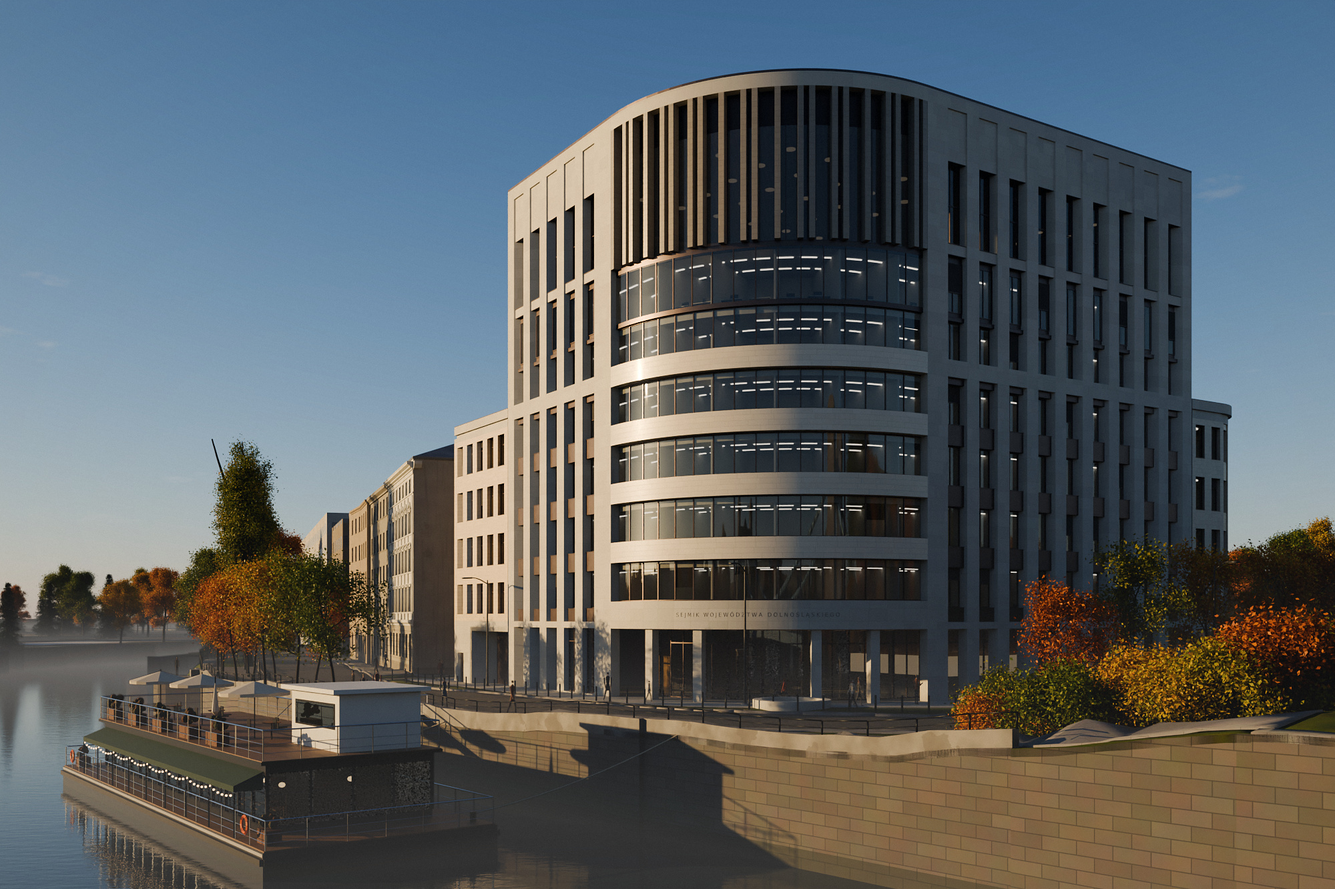
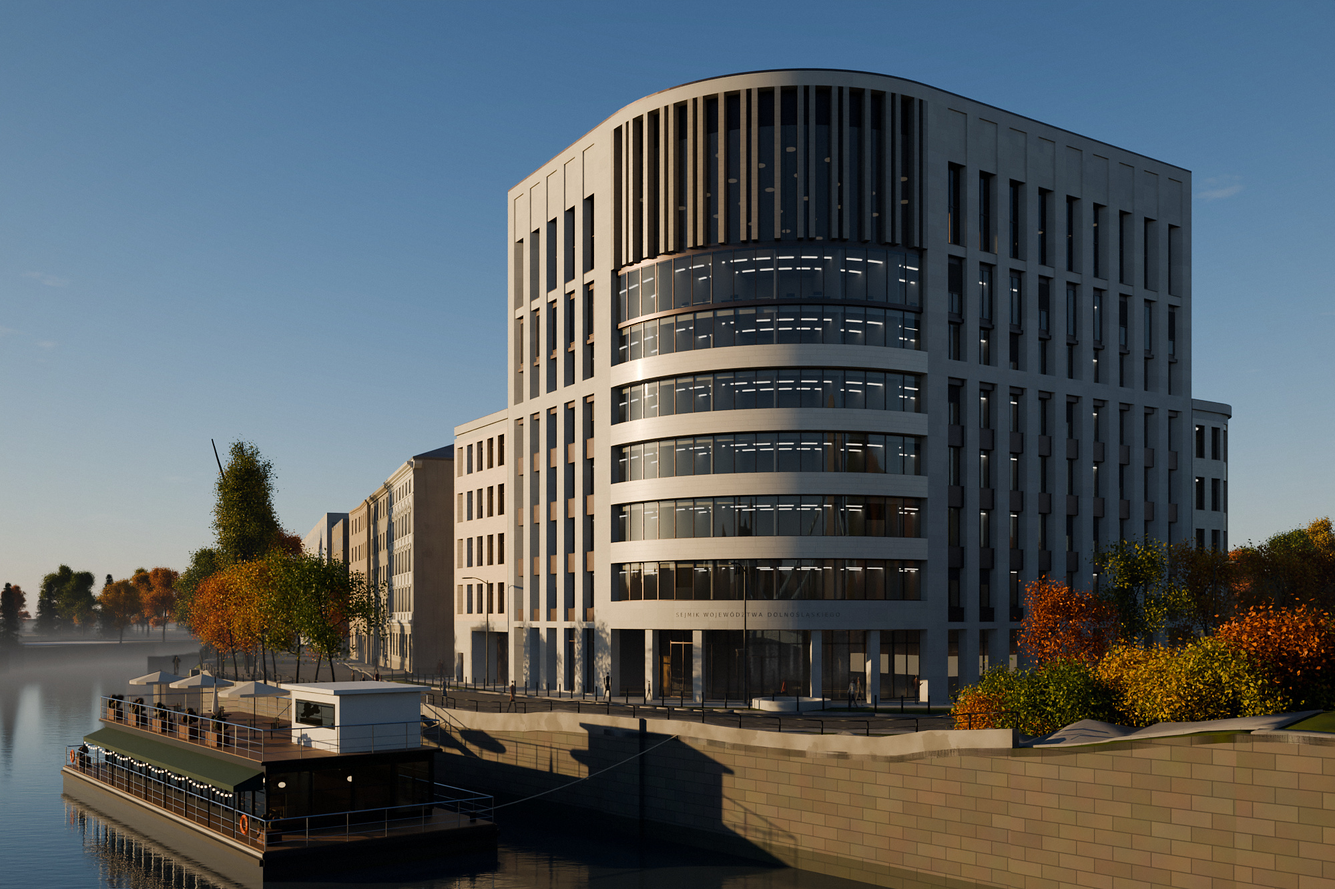
Spec v1.2b: open decisions closed and verified (M.13 stair widths 1.61 m, MDS 600 on −1, hall axis free zone, gallery 20+3, Sg façade, ETICS, trees, deviations), cost 149.47 mln
Claude-Session: https://claude.ai/code/session_01ULAuXU15ZK9PB4XdqzfV5P

Changed region(s): [[0.062, 0.7997, 0.682, 1.0], [0.62, 0.7689, 0.713, 0.8305], [0.093, 0.7997, 0.155, 0.8305]]

diff --git a/umwd/render/final_ulica_3.py b/umwd/render/final_ulica_3.py
@@ -6,6 +6,10 @@ nakładkę finałową zestawu ``render/ujecia_finalne_korekty.py`` (→ ``ujecia
     nice -n 5 /home/user/aihouse/.venv-render/bin/python -I umwd/render/final_ulica_3.py \
         --id ulica-3 --szer 2000 --probki 64 --out umwd/docs/60_wizualizacje/img/extra/E_ulica-3.jpg
 
+``--surowy PNG`` (opcja tej nakładki): obraz bierze się z zachowanego surowego PNG renderu (ten sam kadr i scena),
+a render służy tylko passom (Depth, Mist, Object Index) – wystarczy ``--probki 1``; potem mgła i postprodukcja.
+Raport kontroli zachowuje próbki i czas renderu, z którego pochodzi surowy PNG (``post_z_surowego``).
+
 Warunki wspólne zestawu (z ``ujecia_finalne_korekty.py``, przy budowie sceny od zera): lamele korony łuku wg v1.1
 (21 szt. 0,35 × 0,60 m, rozstawy 1,35 / 0,675 m w ciągu Fibonacciego), sitodruk 30 % na szkle korony, w dzień ciepłe
 oprawy ×0,12; klucz ``woda`` wpisu JSON (chropowatość, fale, barwa wody).
@@ -20,12 +24,13 @@ Poprawki tego ujęcia wg uwag jurorów (po zbudowaniu / wczytaniu sceny, idempot
    (pionowa smuga cienia), trzech pieszych na bulwarze przy nabrzeżu.
 2. **Druga barka (pd., (145; 27), 20 × 7 m)** – jeśli wchodzi w kadr, też byłaby „pudłem”: ``"barka_pd": "usun"``
    w JSON usuwa jej ściany z obiektu ``barki`` (przystań w głębi, 110 m od kamery).
-3. **Lekka mgła nad wodą** (``post_przed.mgla.tryb = 'woda'``) – krok przed wspólną postprodukcją: z passu Mist
-   (liniowo 0…``glebokosc`` m, ``start`` = 0 → odległość od kamery) i kierunków promieni kamery odtwarzane jest
+3. **Lekka mgła nad wodą** (``post_przed.mgla.tryb = 'woda'``) – krok przed wspólną postprodukcją: z passu Depth
+   (Cycles zapisuje go dla pierwszej powierzchni o alfie ≥ 0,5 – szkło i puste pola kart liści są pomijane; pass Mist
+   uśrednia się przez przezroczystości i za szybami daje „daleko”) i kierunków promieni kamery odtwarzane jest
    położenie punktu w każdym pikselu; grubość optyczna mgły to całka gęstości ρ(h) = ρ0·exp(−h / Hs) (h – wysokość
-   nad zwierciadłem wody) wzdłuż promienia, transmisja T = exp(−τ), wynik = obraz·T + barwa mgły·(1 − T). Barwa –
-   ciepła biel o luminancji nieba przy horyzoncie (rano mgła oświetlona nisko stojącym słońcem). Mgła rośnie z
-   odległością i przy wodzie – głębia kadru bez zmiany kontrastu pierwszego planu i wieży.
+   nad zwierciadłem wody) wzdłuż promienia, mnożona przez rampę odległości (``rampa_m``, domyślnie 55 → 130 m –
+   mgła „w głębi”, pierwszy plan bez zmian); transmisja T = exp(−τ), wynik = obraz·T + barwa mgły·(1 − T). Barwa –
+   ciepła biel o luminancji nieba przy horyzoncie (rano mgła oświetlona nisko stojącym słońcem).
 4. **Kontrola dodatkowa** (raport ``korekty.kontrola_ulica3``): kąt pylonu pd. i łańcucha po stronie kamery od osi
    kadru, elementy mostu w kadrze (wierzchołki siatek mostu rzutowane na kadr, widoczne promieniem), rzut barki
    z detalem i drugiej barki na kadr, ludzie w kadrze (rzut głowy, widoczność).
